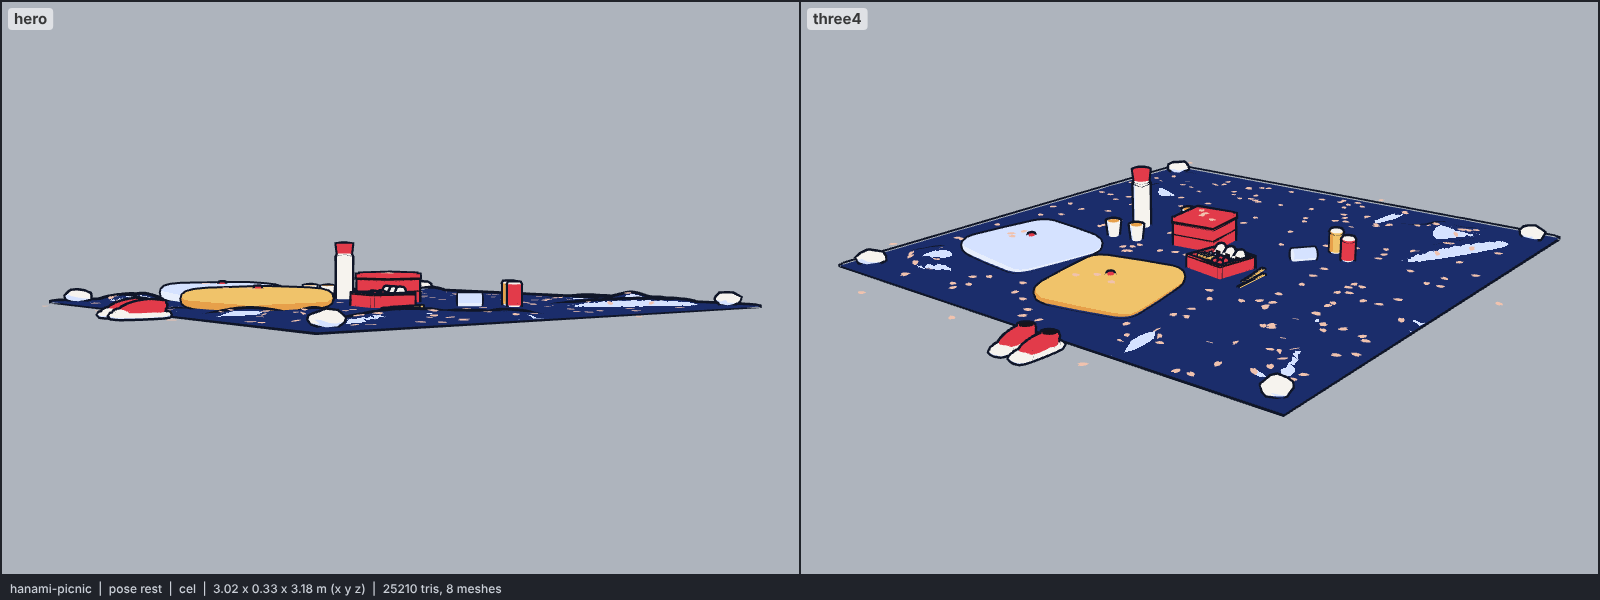
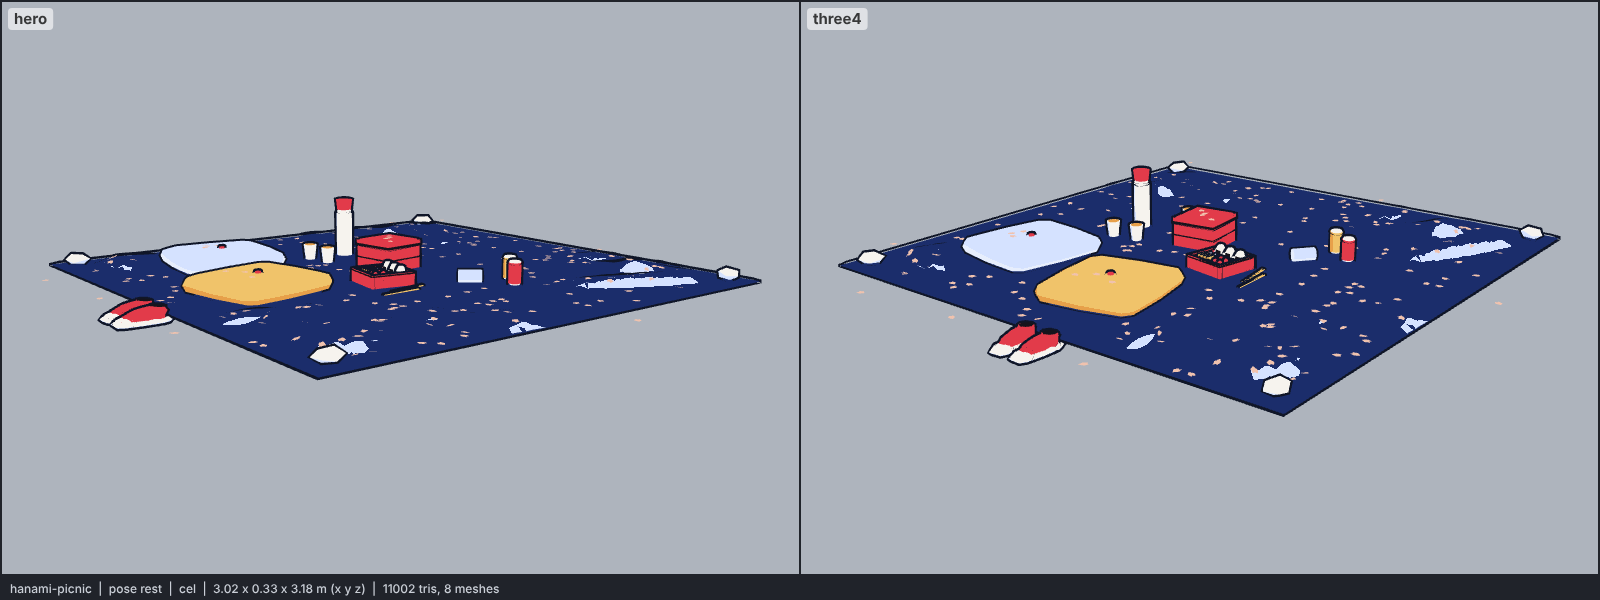
models: hanami-picnic, 11k triangles (coarser sheet, fan petals, fewer segments)
Claude-Session: https://claude.ai/code/session_01RarBCdt4E1fNHHaUKaW5GL

diff --git a/models/hanami-picnic.js b/models/hanami-picnic.js
@@ -3,7 +3,7 @@
 // its left is +X, stands on y = 0, centred on x = 0, z = 0 (the bbox of the whole set).
 //
 // Construction (triangle soups merged per material across every piece, so the whole spread is 8 meshes):
-//   SHEET    the "blue sheet": one closed heightfield slab (80 x 80 grid, smooth normals, 4 mm thick, flat bottom).
+//   SHEET    the "blue sheet": one closed heightfield slab (56 x 56 grid, smooth normals, 4 mm thick, flat bottom).
 //            Soft wrinkles are ridges, each a Gaussian cross-section along a short segment with a sine envelope: two
 //            fanning in from every weighted corner, a few running in from the edges. They fade to flat under every
 //            item's footprint, so things sit on the sheet. The sheet's tone pair is inverted on purpose: base = the
@@ -17,7 +17,7 @@
 //   PROPS    a thermos with a red cup-cap, three paper cups (tea surfaces), two cans and one on its side, two pairs of
 //            chopsticks on the open tier's flank, two zabuton cushions (superellipsoids), four rocks pinning the
 //            corners, a pair of sneakers left at the front edge, heels to the sheet.
-//   PETALS   flat notched sakura petals (2 mm prisms, no ink), scattered by a seeded hash (mulberry32), tilted to the
+//   PETALS   flat notched sakura petals (a 4-triangle fan facing up, no ink), scattered by a seeded hash (mulberry32), tilted to the
 //            sheet's slope; most on the sheet away from the items, a few on the ground around it, some on the lid
 //            and the cushions.
 //   Built from THREE geometries (non-indexed, transformed, wound by three.js, never mirrored) plus the custom sheet,
@@ -112,13 +112,13 @@ export function build(THREE, kit, colors = meta.colors, opts = {}) {
   const ridge = (x0, z0, ang, len, amp, w) => ridges.push({ x0, z0, dx: Math.cos(ang), dz: Math.sin(ang), len, amp, w });
   for (const [sx, sz] of [[1, 1], [-1, 1], [1, -1], [-1, -1]]) {
     const base = Math.atan2(-sz, -sx); // toward the centre
-    for (const k of [-1, 1]) ridge(sx * (HALF - 0.14), sz * (HALF - 0.14), base + k * (0.28 + 0.12 * rand()), 0.55 + 0.4 * rand(), 0.028 + 0.012 * rand(), 0.05 + 0.02 * rand());
+    for (const k of [-1, 1]) ridge(sx * (HALF - 0.14), sz * (HALF - 0.14), base + k * (0.28 + 0.12 * rand()), 0.55 + 0.4 * rand(), 0.036 + 0.012 * rand(), 0.075 + 0.025 * rand());
   }
   for (let e = 0; e < 4; e++)
     for (let k = 0; k < 2; k++) {
       const u = (rand() - 0.5) * 1.6, ang = (e * Math.PI) / 2 + Math.PI + (rand() - 0.5) * 0.7;
       const [x0, z0] = [[HALF, u], [u, HALF], [-HALF, u], [u, -HALF]][e];
-      ridge(x0, z0, ang, 0.3 + 0.3 * rand(), 0.022 + 0.01 * rand(), 0.045 + 0.02 * rand());
+      ridge(x0, z0, ang, 0.3 + 0.3 * rand(), 0.028 + 0.01 * rand(), 0.07 + 0.02 * rand());
     }
   const smooth = (a, b, v) => { const t = Math.min(1, Math.max(0, (v - a) / (b - a))); return t * t * (3 - 2 * t); };
   function lift(x, z) {
@@ -147,7 +147,7 @@ export function build(THREE, kit, colors = meta.colors, opts = {}) {
 
   // sheet slab
   {
-    const N = 80, s = S("sheet");
+    const N = 56, s = S("sheet");
     const V = [], Nn = [];
     const e = 0.004;
     for (let j = 0; j <= N; j++)
@@ -246,7 +246,7 @@ export function build(THREE, kit, colors = meta.colors, opts = {}) {
       tri.quadraticCurveTo(...P, ...B);
     }
     tri.closePath();
-    const oni = new THREE.ExtrudeGeometry(tri, { depth: 0.016, bevelEnabled: true, bevelThickness: 0.008, bevelSize: 0.006, bevelSegments: 3, curveSegments: 5 });
+    const oni = new THREE.ExtrudeGeometry(tri, { depth: 0.016, bevelEnabled: true, bevelThickness: 0.008, bevelSize: 0.006, bevelSegments: 2, curveSegments: 3 });
     oni.translate(0, R / 2 + 0.006, -0.008); // base on y = 0, centred in depth
     const nori = new THREE.BoxGeometry(0.032, 0.036, 0.036);
     nori.translate(0, 0.018, 0);
@@ -292,26 +292,26 @@ export function build(THREE, kit, colors = meta.colors, opts = {}) {
   }
 
   // ---------- drinks ----------
-  cyl("white", [thermosAt[0], T, thermosAt[1]], 0.045, 0.045, 0.25, 18);
-  cyl("white", [thermosAt[0], T + 0.25, thermosAt[1]], 0.036, 0.045, 0.02, 18);
-  cyl("lacquer", [thermosAt[0], T + 0.268, thermosAt[1]], 0.047, 0.04, 0.058, 18);
+  cyl("white", [thermosAt[0], T, thermosAt[1]], 0.045, 0.045, 0.25, 12);
+  cyl("white", [thermosAt[0], T + 0.25, thermosAt[1]], 0.036, 0.045, 0.02, 12);
+  cyl("lacquer", [thermosAt[0], T + 0.268, thermosAt[1]], 0.047, 0.04, 0.058, 12);
   for (const [x, z] of cupsAt) {
-    cyl("white", [x, T, z], 0.037, 0.027, 0.085, 14);
-    cyl("tea", [x, T + 0.085, z], 0.031, 0.031, 0.0015, 14);
+    cyl("white", [x, T, z], 0.037, 0.027, 0.085, 10);
+    cyl("tea", [x, T + 0.085, z], 0.031, 0.031, 0.0015, 10);
   }
   const canKeys = ["egg", "lacquer"];
   cansAt.forEach(([x, z], k) => {
-    cyl(canKeys[k], [x, T + 0.008, z], 0.033, 0.033, 0.106, 16);
-    cyl("white", [x, T, z], 0.03, 0.027, 0.008, 16);
-    cyl("white", [x, T + 0.114, z], 0.028, 0.033, 0.008, 16);
+    cyl(canKeys[k], [x, T + 0.008, z], 0.033, 0.033, 0.106, 10);
+    cyl("white", [x, T, z], 0.03, 0.027, 0.008, 10);
+    cyl("white", [x, T + 0.114, z], 0.028, 0.033, 0.008, 10);
   });
-  geo("pale", new THREE.CylinderGeometry(0.033, 0.033, 0.12, 16), [canLyingAt[0], T + 0.033, canLyingAt[1]], [0, 0.9, Math.PI / 2]);
+  geo("pale", new THREE.CylinderGeometry(0.033, 0.033, 0.12, 10), [canLyingAt[0], T + 0.033, canLyingAt[1]], [0, 0.9, Math.PI / 2]);
 
   // ---------- cushions, rocks, shoes ----------
-  superBall("egg", [cushA[0], T, cushA[1]], [0.275, 0.05, 0.295], 0.3, 0.75, 0.2);
-  superBall("pale", [cushB[0], T, cushB[1]], [0.275, 0.05, 0.295], 0.3, 0.75, -0.15);
+  superBall("egg", [cushA[0], T, cushA[1]], [0.275, 0.05, 0.295], 0.3, 0.75, 0.2, 12);
+  superBall("pale", [cushB[0], T, cushB[1]], [0.275, 0.05, 0.295], 0.3, 0.75, -0.15, 12);
   for (const [x, z] of rocksAt) {
-    const g = new THREE.IcosahedronGeometry(1, 1);
+    const g = new THREE.IcosahedronGeometry(1, 0);
     const p = g.attributes.position;
     for (let i = 0; i < p.count; i++) {
       // deterministic lumps keyed on the vertex direction, so shared corners move together
@@ -325,7 +325,7 @@ export function build(THREE, kit, colors = meta.colors, opts = {}) {
   for (const [x, a] of [[0.12, 0.08], [0.25, -0.05]]) {
     const z = HALF + 0.17;
     const M = new THREE.Matrix4().compose(tmpP.set(x, 0, z), tmpQ.setFromEuler(tmpE.set(0, a, 0)), tmpS.set(1, 1, 1));
-    const sole = new THREE.SphereGeometry(1, 16, 8);
+    const sole = new THREE.SphereGeometry(1, 10, 6);
     const pp = sole.attributes.position;
     for (let i = 0; i < pp.count; i++) {
       const f = (v, k) => Math.sign(v) * Math.abs(v) ** k;
@@ -334,9 +334,9 @@ export function build(THREE, kit, colors = meta.colors, opts = {}) {
     sole.computeVertexNormals();
     geo("white", sole, [0, 0.012, 0], [0, 0, 0], [0.046, 0.012, 0.13], M);
     // upper: a dome dropping toward the toe, a raised heel collar, a white toe cap and a dark opening
-    geo("lacquer", new THREE.SphereGeometry(1, 16, 10), [0, 0.038, -0.01], [0.14, 0, 0], [0.041, 0.034, 0.108], M);
-    geo("lacquer", new THREE.CylinderGeometry(0.034, 0.038, 0.06, 14), [0, 0.042, -0.07], [-0.12, 0, 0], [1, 1, 1], M);
-    geo("black", new THREE.CylinderGeometry(0.028, 0.028, 0.004, 14), [0, 0.073, -0.074], [-0.12, 0, 0], [1, 1, 1.25], M);
+    geo("lacquer", new THREE.SphereGeometry(1, 10, 6), [0, 0.038, -0.01], [0.14, 0, 0], [0.041, 0.034, 0.108], M);
+    geo("lacquer", new THREE.CylinderGeometry(0.034, 0.038, 0.06, 8), [0, 0.042, -0.07], [-0.12, 0, 0], [1, 1, 1], M);
+    geo("black", new THREE.CylinderGeometry(0.028, 0.028, 0.004, 8), [0, 0.073, -0.074], [-0.12, 0, 0], [1, 1, 1.25], M);
     geo("white", new THREE.SphereGeometry(1, 12, 6), [0, 0.02, 0.078], [0, 0, 0], [0.038, 0.02, 0.04], M);
   }
   // zabuton tufts (the centre tie)
@@ -344,15 +344,15 @@ export function build(THREE, kit, colors = meta.colors, opts = {}) {
 
   // ---------- petals ----------
   {
-    const sh = new THREE.Shape(), L = 0.044, W = 0.032;
-    sh.moveTo(0, 0);
-    sh.bezierCurveTo(W * 0.55, L * 0.25, W * 0.6, L * 0.75, W * 0.28, L);
-    sh.lineTo(0, L * 0.86); // the notch
-    sh.lineTo(-W * 0.28, L);
-    sh.bezierCurveTo(-W * 0.6, L * 0.75, -W * 0.55, L * 0.25, 0, 0);
-    const g = new THREE.ExtrudeGeometry(sh, { depth: 0.002, bevelEnabled: false, curveSegments: 3 });
-    g.translate(0, -L / 2, 0);
-    g.rotateX(-Math.PI / 2); // lie flat, extruded upward
+    // one flat, upward-facing fan of 4 triangles: base, two flanks, two lobes and the notch between them
+    const L = 0.044, W = 0.032;
+    const pts = [[0, -L / 2], [W * 0.5, -L * 0.02], [W * 0.3, L / 2], [0, L * 0.34], [-W * 0.3, L / 2], [-W * 0.5, -L * 0.02]];
+    const pos = [];
+    for (let k = 1; k < 5; k++)
+      for (const [x, z] of [pts[0], pts[k + 1], pts[k]]) pos.push(x, 0.0012, z); // wound counter-clockwise seen from +Y
+    const g = new THREE.BufferGeometry();
+    g.setAttribute("position", new THREE.Float32BufferAttribute(pos, 3));
+    g.setAttribute("normal", new THREE.Float32BufferAttribute(pos.map((v, i) => (i % 3 === 1 ? 1 : 0)), 3));
     const blocked = (x, z) => keep.some(([kx, kz, kr]) => Math.hypot(x - kx, z - kz) < kr + 0.02) || (x > -0.05 && x < 0.4 && z > HALF + 0.02 && z < HALF + 0.33);
     let placed = 0, tries = 0;
     const onLid = Math.min(petals, 4), onCush = Math.min(Math.max(0, petals - onLid), 6);
